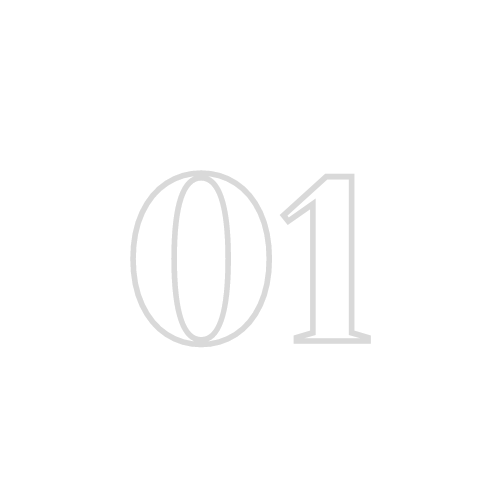
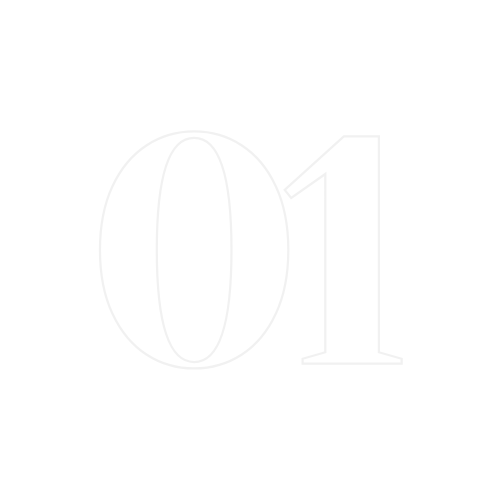
html css update

Changed region(s): [[0.24, 0.33, 0.75, 0.72], [0.48, 0.63, 0.51, 0.66]]

diff --git a/css/stylesheet.css b/css/stylesheet.css
@@ -84,6 +84,7 @@ header {
   padding: 30px;
   border: 2px solid black;
   position: relative;
+  margin-top: 110px;
 }
 
 /*Slide 1*/
@@ -120,7 +121,7 @@ header {
 
 .slide-one h2{
   grid-column: 3/4;
-  grid-row: 1;
+  grid-row: 2;
   align-self: center;
 }
 
@@ -137,6 +138,7 @@ header {
   padding: 30px;
   border: 2px solid black;
   position: relative;
+  margin-top: 110px;
 }
 
 .slide-two img{
@@ -171,7 +173,7 @@ header {
 
 .slide-two h2{
   grid-column: 3/4;
-  grid-row: 1;
+  grid-row: 2;
   align-self: center;
 }
 
@@ -186,6 +188,7 @@ header {
   padding: 30px;
   border: 2px solid black;
   position: relative;
+  margin-top: 110px;
 }
 
 .slide-three img{
@@ -220,18 +223,55 @@ header {
 
 .slide-three h2{
   grid-column: 3/4;
-  grid-row: 1;
+  grid-row: 2;
   align-self: center;
 }
 
 /*Project numbers*/
-.project-number {
-  content: "";
-    display: block;
-    position: absolute;
-    top: -3rem;
+.project-number img {
+  grid-column: 4/4;
+  display: block;
+  position: absolute;
+  top: -13rem;
     right: -10rem;
     font-size: 20px;
+    width: 400px;
+    height: 350px;
     background-repeat: no-repeat;
     background-size: contain;
+}
+
+
+.project-number img:hover {
+  opacity: 0.5;
+}
+
+
+/*Skills Section*/
+.third-section {
+  display: flex;
+  justify-content: space-between;
+  flex-wrap: wrap;
+  padding: 40px;
+}
+
+.skill {
+  width: calc(50% - 10px);
+  margin-bottom: 10px;
+}
+
+.skill-bar {
+  height: 10px;
+  border-radius: 5px;
+}
+
+.html {
+  width: 90%;
+  background-color: #4CAF50;
+}
+
+.css {
+  width: 80%;
+  background-color: #2196F3;
+  border: 2px solid white;
 }

diff --git a/index.html b/index.html
@@ -40,26 +40,50 @@
     </div>
 
     <div class="slide-one">
-      <p class="project-number">1</p>
+      <div class="project-number">
+        <img src="images/number-one.png">
+      </div>
+      
       <h5>HTML, CSS, JavaScript, Netlify</h5>
       <img src="images/eunoia-project.jpg" alt="Eunoia Cinic Project">
       <h2>The Eunoia Clinic</h2>
     </div>
 
     <div class="slide-two">
-      <h1>2</h1>
+      <div class="project-number">
+        <img src="images/number-two.png">
+      </div>
+      
       <h5>HTML, CSS, JavaScript, Netlify</h5>
       <img src="images/flipability-project.jpg" alt="Flipability Project">
       <h2>Aluve Flipability</h2>
     </div>
 
     <div class="slide-three">
+      <div class="project-number">
+        <img src="images/number-three.png">
+      </div>
+
       <h5>HTML, CSS, JavaScript, Netlify</h5>
       <img src="images/pinch-project.jpg" alt="Pinch Project">
       <h2>Pinch</h2>
     </div>
   </div>
   
+  <div class="third-section">
+    <h3>Here's what I can work with:</h3>
+
+    <div class="skill"> 
+      <span>HTML</span>
+      <div class="skill-bar html"></div>
+    </div>
+
+    <div class="skill">
+      <span>CSS</span>
+      <div class="skill-bar css"></div>
+    </div>
+
+  </div>
 
 
   
